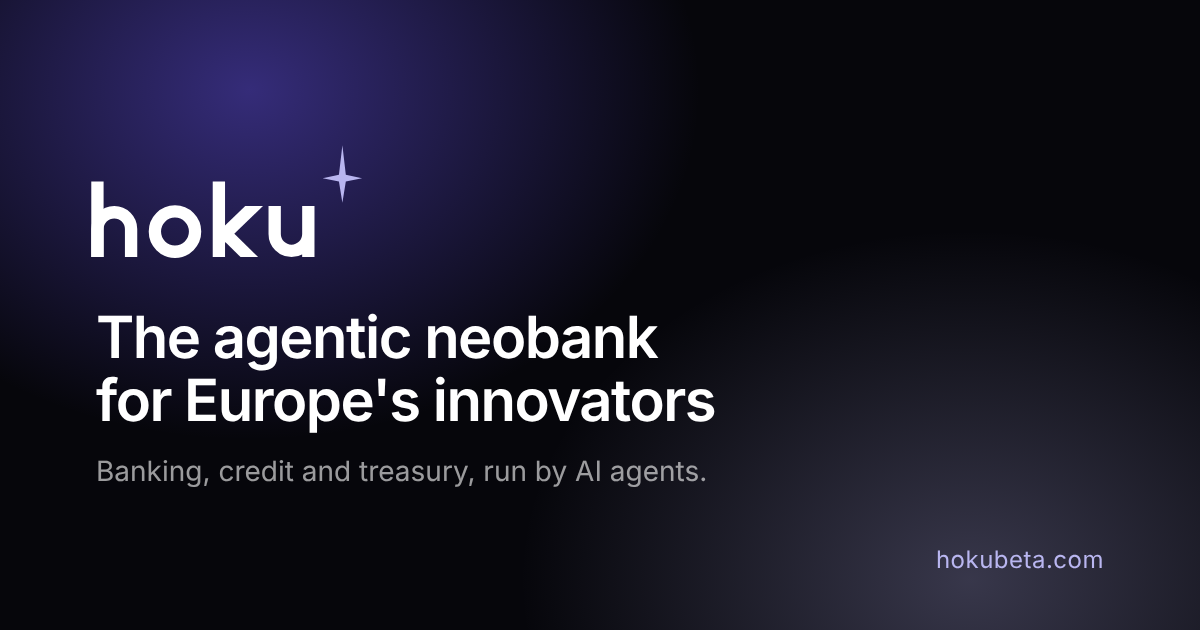
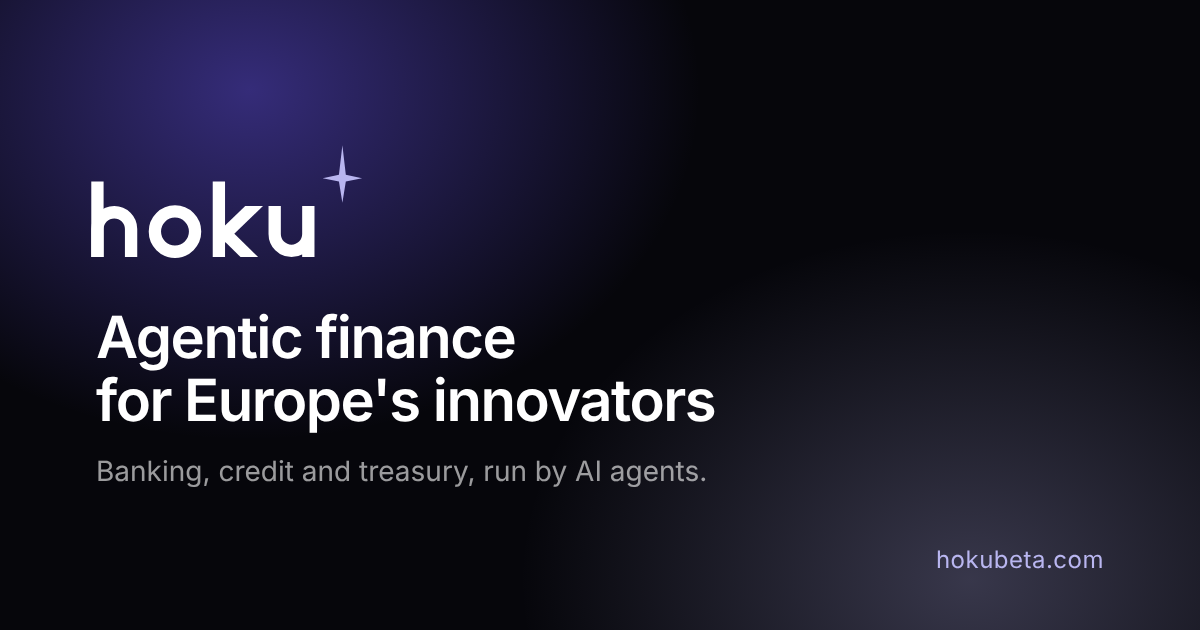
Drop "neobank" from the copy: Hoku is agentic finance, a financial partner
Claude-Session: https://claude.ai/code/session_01T89EnVABybLASXNLbm517S

Changed region(s): [[0.0617, 0.4825, 0.555, 0.6032]]

diff --git a/src/components/Sections.tsx b/src/components/Sections.tsx
@@ -204,14 +204,14 @@ export function Vision() {
             <h2 className="mt-5 text-[clamp(2.5rem,5.5vw,4.5rem)] font-semibold leading-[1] tracking-[-0.045em]">
               Europe doesn&apos;t lack innovation.
               <br />
-              <span className="text-gradient">It lacks a neobank built for it.</span>
+              <span className="text-gradient">It lacks a financial partner built for it.</span>
             </h2>
           </Reveal>
           <Reveal delay={0.1}>
             <p className="text-lg leading-relaxed text-white/65">
               Technology SMEs are too big for consumer fintech apps, too small for
               a debt fund and too asset-light for a traditional bank. We are building
-              the European neobank that finances them on live data, run by
+              the European financial platform that finances them on live data, run by
               AI agents from day one.
             </p>
             <div className="mt-6 flex items-baseline gap-3">
@@ -416,7 +416,7 @@ export function Access() {
       <Aurora />
       <Reveal className="relative mx-auto max-w-3xl text-center">
         <h2 className="text-[clamp(2.5rem,6vw,5rem)] font-semibold leading-[0.98] tracking-[-0.045em]">
-          The neobank Europe&apos;s
+          The financial partner Europe&apos;s
           <br />
           <span className="text-gradient">innovators deserve.</span>
         </h2>

diff --git a/src/app/page.tsx b/src/app/page.tsx
@@ -22,7 +22,7 @@ const organization = {
   url: `${SITE_URL}/`,
   logo: `${SITE_URL}/brand/hoku-icon-512.png`,
   description:
-    "Hoku is a Warsaw-based company building an agentic neobank for Europe's innovative companies. Hoku is not a bank and does not provide regulated services.",
+    "Hoku is a Warsaw-based company building an agentic finance platform for Europe's innovative companies. Hoku is not a bank and does not provide regulated services.",
   address: { "@type": "PostalAddress", addressLocality: "Warsaw", addressCountry: "PL" },
   ...(LINKEDIN_URL ? { sameAs: [LINKEDIN_URL] } : {}),
 };

diff --git a/src/components/Hero.tsx b/src/components/Hero.tsx
@@ -115,7 +115,7 @@ export function Hero() {
             className="rise glass mx-auto inline-flex items-center gap-2 rounded-full px-3.5 py-1.5 text-xs text-white/80 lg:mx-0"
           >
             <span className="h-1.5 w-1.5 rounded-full bg-sky" />
-            The agentic neobank for Europe&apos;s innovators
+            Agentic finance for Europe&apos;s innovators
           </p>
 
           <h1

diff --git a/src/app/layout.tsx b/src/app/layout.tsx
@@ -23,7 +23,7 @@ const instrumentSerif = Instrument_Serif({
   subsets: ["latin"],
 });
 
-const title = "Hoku | The agentic neobank for Europe's innovators";
+const title = "Hoku | Agentic finance for Europe's innovators";
 const description =
   "Agentic banking and credit for Europe's innovators. One account for banking, credit and treasury, run by AI agents within the mandate your CFO sets.";
 
